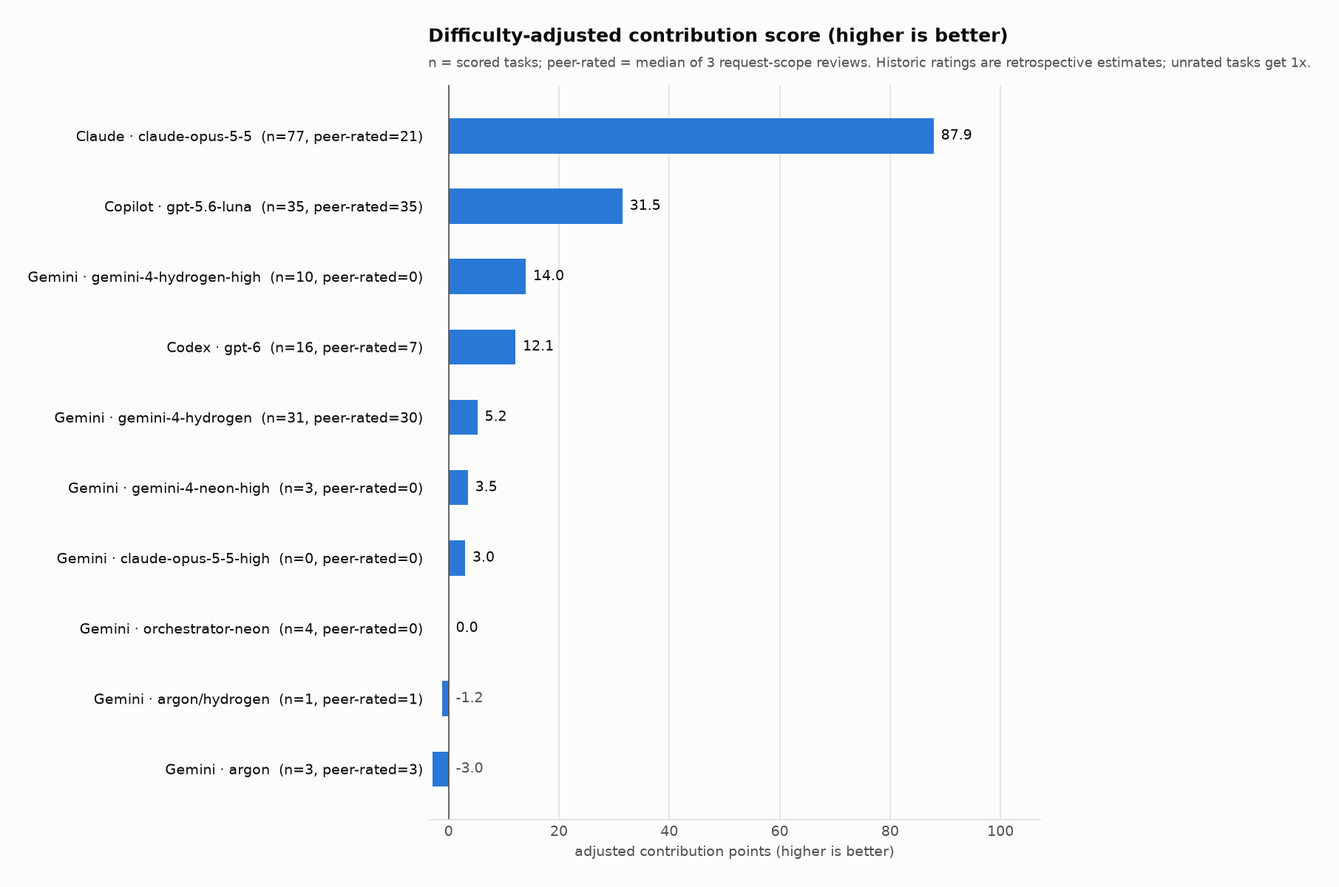
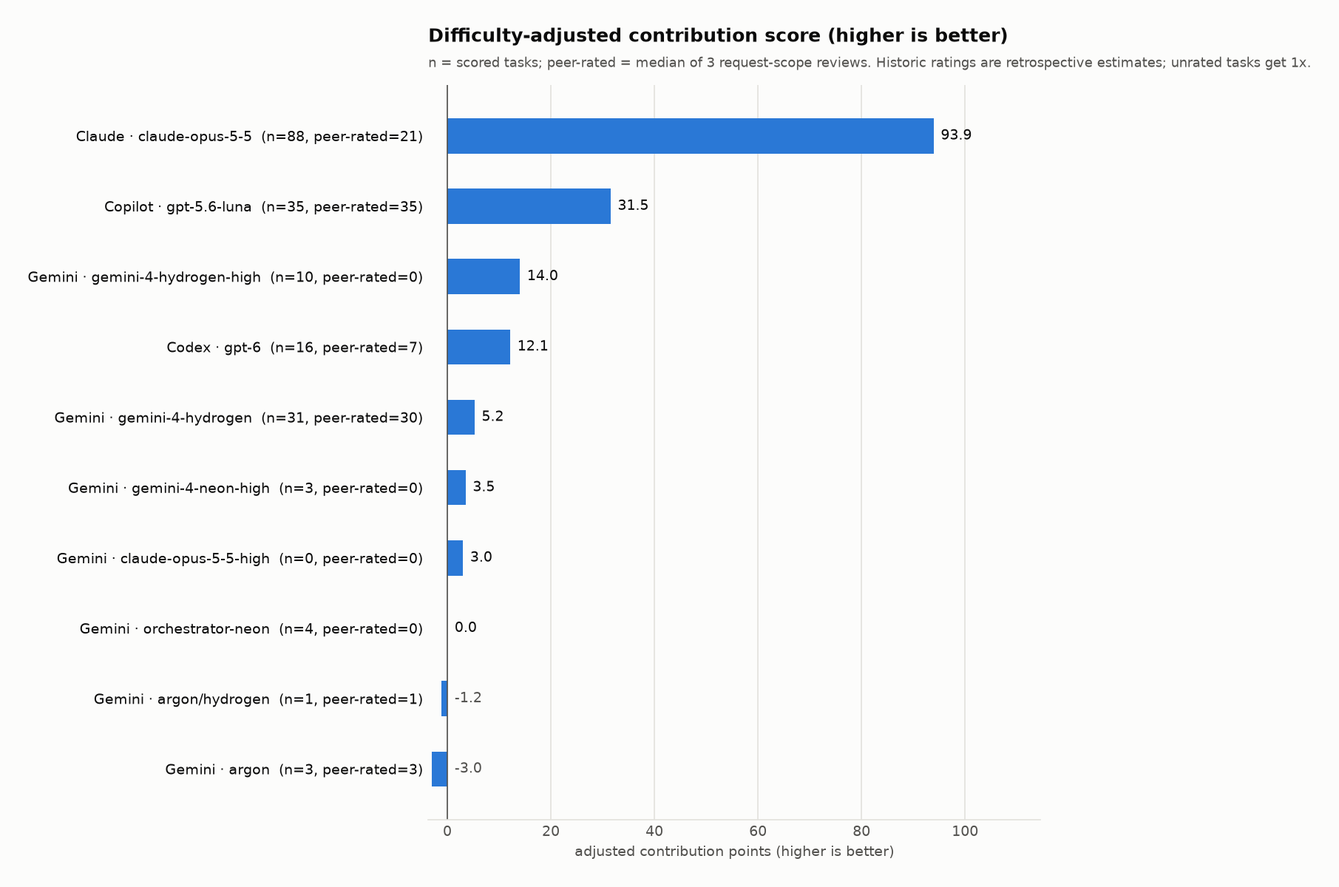
Squad chat orders for the whole team (B122); Bot Lab and README explain them; board, ledgers C78-C88, D74-D76; prompts to 12:51; stats
T, type, Enter in a team match: every living teammate bot obeys for 12 s,
fanned out: flank left / flank right, hold, push / flag, regroup / on me.
Two answer in chat. No LLM needed.

diff --git a/Docs/Bot/bot-lab.html b/Docs/Bot/bot-lab.html
@@ -324,9 +324,11 @@ body.gifmode .wrap { display: none; }
     <svg class="viz-svg" id="clock-svg" viewBox="0 0 1000 300" role="img" aria-label="Animated timeline with one row per bot loop and one mark per tick"></svg>
     <p class="viz-sum"><b>Who gives orders?</b> The 1.5 s Orders poll runs only when a commander is plugged in: an LLM or any script that
     implements <code>IBotDirectiveProvider</code> (hollow marks show where it would ask). Out of the box none is attached, so nothing is
-    polled. Every bot decides for itself with its own priority waterfall (05), and the only orders come from you, the player. Squad chat
-    (Flank, Hold, Push) reaches your team's bots instantly, not on a tick, and each order lasts 12 s. In team modes your bots also follow
-    you on their own (the waterfall's Follow leader rule), which is a decision, not an order.</p>
+    polled and every bot decides for itself with its priority waterfall (05). The only orders come from you, and they work today with no
+    LLM. In a team match press <b>T</b>, type, and press <b>Enter</b>. Every living teammate bot obeys at once (not on a tick), fanned out
+    so they do not stack, for 12 s: <b>flank left</b> / <b>flank right</b> (14 m to that side and a little ahead), <b>hold</b>
+    (stay on the current angle), <b>push</b> or <b>flag</b> (the capture zone, or 16 m ahead of you), and <b>regroup</b> / <b>on me</b>
+    (back to you). Two of them answer in chat. In free-for-all and duels nobody is on your side, so nobody obeys.</p>
   </div>
 </section>
 
@@ -3069,7 +3071,7 @@ requestAnimationFrame(frame);
       { name: 'Brain', rate: '~4 Hz ±15 %', per: 0.25, jit: 0.15, col: 'var(--accent)', what: 'goal, target, destination' },
       { name: 'Legs', rate: 'every 0.6 s', per: 0.6, col: 'var(--good)', what: 'NavMesh path refresh' },
       { name: 'Adaptive', rate: 'every 0.75 s', per: 0.75, col: 'var(--zone)', what: 'skill re-blend (Adaptive bots)' },
-      { name: 'Orders', rate: '1.5 s, with a commander', per: 1.5, col: 'var(--warn)', what: 'no LLM: none (you order by chat)', optional: true },
+      { name: 'Orders', rate: '1.5 s, with a commander', per: 1.5, col: 'var(--warn)', what: 'no LLM: none; you order by chat (T)', optional: true },
     ];
     const X0 = 248, X1 = 990, W = X1 - X0, TOP = 28, ROW = 40, WIN = 4;
     mk('text', { x: X0, y: 16, class: 'dim', 'font-size': 11 }, csvg, '4 s ago');

diff --git a/Docs/Bot/src/bot-lab.html b/Docs/Bot/src/bot-lab.html
@@ -314,9 +314,11 @@ body.gifmode .wrap { display: none; }
     <svg class="viz-svg" id="clock-svg" viewBox="0 0 1000 300" role="img" aria-label="Animated timeline with one row per bot loop and one mark per tick"></svg>
     <p class="viz-sum"><b>Who gives orders?</b> The 1.5 s Orders poll runs only when a commander is plugged in: an LLM or any script that
     implements <code>IBotDirectiveProvider</code> (hollow marks show where it would ask). Out of the box none is attached, so nothing is
-    polled. Every bot decides for itself with its own priority waterfall (05), and the only orders come from you, the player. Squad chat
-    (Flank, Hold, Push) reaches your team's bots instantly, not on a tick, and each order lasts 12 s. In team modes your bots also follow
-    you on their own (the waterfall's Follow leader rule), which is a decision, not an order.</p>
+    polled and every bot decides for itself with its priority waterfall (05). The only orders come from you, and they work today with no
+    LLM. In a team match press <b>T</b>, type, and press <b>Enter</b>. Every living teammate bot obeys at once (not on a tick), fanned out
+    so they do not stack, for 12 s: <b>flank left</b> / <b>flank right</b> (14 m to that side and a little ahead), <b>hold</b>
+    (stay on the current angle), <b>push</b> or <b>flag</b> (the capture zone, or 16 m ahead of you), and <b>regroup</b> / <b>on me</b>
+    (back to you). Two of them answer in chat. In free-for-all and duels nobody is on your side, so nobody obeys.</p>
   </div>
 </section>
 
@@ -3059,7 +3061,7 @@ requestAnimationFrame(frame);
       { name: 'Brain', rate: '~4 Hz ±15 %', per: 0.25, jit: 0.15, col: 'var(--accent)', what: 'goal, target, destination' },
       { name: 'Legs', rate: 'every 0.6 s', per: 0.6, col: 'var(--good)', what: 'NavMesh path refresh' },
       { name: 'Adaptive', rate: 'every 0.75 s', per: 0.75, col: 'var(--zone)', what: 'skill re-blend (Adaptive bots)' },
-      { name: 'Orders', rate: '1.5 s, with a commander', per: 1.5, col: 'var(--warn)', what: 'no LLM: none (you order by chat)', optional: true },
+      { name: 'Orders', rate: '1.5 s, with a commander', per: 1.5, col: 'var(--warn)', what: 'no LLM: none; you order by chat (T)', optional: true },
     ];
     const X0 = 248, X1 = 990, W = X1 - X0, TOP = 28, ROW = 40, WIN = 4;
     mk('text', { x: X0, y: 16, class: 'dim', 'font-size': 11 }, csvg, '4 s ago');

diff --git a/Assets/LR2/Runtime/UI/TacticalChatSystem.cs b/Assets/LR2/Runtime/UI/TacticalChatSystem.cs
@@ -478,27 +478,49 @@ namespace LR2.UI
             Post(pName, TeamUtil.FriendlyColor, msg);
 
             string lower = msg.ToLowerInvariant();
-            Combatant ally = FindFriendlyBot();
-            if (ally != null && _playerCombatant != null)
+            // B122 (user 11-19 "how can i order by chat? does it work?"): squad orders by chat, no LLM needed. T, type, Enter.
+            // Every living teammate bot takes the order (spread out, not stacked); "left"/"right" pick the flank side;
+            // "regroup" / "on me" / "follow" brings them back to you. Orders last 12 s, then the bots decide for themselves.
+            var squad = FindFriendlyBots();
+            if (squad.Count > 0 && _playerCombatant != null)
             {
-                var bot = ally.GetComponent<BotController>();
+                Vector3 me = _playerCombatant.Position, fwd = _playerCombatant.transform.forward, right = _playerCombatant.transform.right;
+                BotOrder order = BotOrder.None;
+                Vector3 goal = me;
+                string ack = null;
                 if (lower.Contains("flank"))
                 {
-                    if (bot != null) bot.IssueDirective(new BotDirective { order = BotOrder.Flank, position = _playerCombatant.Position + _playerCombatant.transform.right * 14f, duration = 12f });
-                    Enqueue(0.9f, ally.DisplayName + " [TEAM]", TeamUtil.FriendlyColor, "Copy! Swinging wide flank right now!");
-                    return;
+                    float side = lower.Contains("left") ? -1f : 1f;
+                    order = BotOrder.Flank; goal = me + right * (14f * side) + fwd * 6f;
+                    ack = side < 0f ? "Copy, swinging wide left!" : "Copy, swinging wide right!";
                 }
-                if (lower.Contains("hold"))
+                else if (lower.Contains("hold") || lower.Contains("stay") || lower.Contains("wait"))
                 {
-                    if (bot != null) bot.IssueDirective(new BotDirective { order = BotOrder.HoldPosition, position = ally.Position, duration = 12f });
-                    Enqueue(0.9f, ally.DisplayName + " [TEAM]", TeamUtil.FriendlyColor, "Holding current angle, call when you push!");
-                    return;
+                    order = BotOrder.HoldPosition; ack = "Holding this angle, call when you push!";
                 }
-                if (lower.Contains("push") || lower.Contains("flag"))
+                else if (lower.Contains("push") || lower.Contains("flag") || lower.Contains("attack") || lower.Contains("go go"))
                 {
-                    Vector3 targetPos = FlagZoneController.Instance != null ? FlagZoneController.Instance.ActiveFlagPosition : _playerCombatant.Position + _playerCombatant.transform.forward * 16f;
-                    if (bot != null) bot.IssueDirective(new BotDirective { order = BotOrder.MoveTo, position = targetPos, duration = 12f });
-                    Enqueue(0.9f, ally.DisplayName + " [TEAM]", TeamUtil.FriendlyColor, "Rogering up — crashing the objective with you!");
+                    order = BotOrder.MoveTo;
+                    goal = FlagZoneController.Instance != null ? FlagZoneController.Instance.ActiveFlagPosition : me + fwd * 16f;
+                    ack = "Rogering up, crashing the objective with you!";
+                }
+                else if (lower.Contains("regroup") || lower.Contains("on me") || lower.Contains("follow") || lower.Contains("back"))
+                {
+                    order = BotOrder.FollowLeader; goal = me; ack = "On you, moving up!";
+                }
+                if (order != BotOrder.None)
+                {
+                    for (int i = 0; i < squad.Count; i++)
+                    {
+                        var bot = squad[i].GetComponent<BotController>();
+                        if (bot == null) continue;
+                        // fan the squad out around the goal so they do not stack on one spot
+                        Vector3 spread = Quaternion.Euler(0f, i * 137.5f, 0f) * Vector3.forward * (i == 0 ? 0f : 1.8f + 0.6f * i);
+                        Vector3 pos = order == BotOrder.HoldPosition ? squad[i].Position : goal + spread;
+                        bot.IssueDirective(new BotDirective { order = order, position = pos, target = order == BotOrder.FollowLeader ? _playerCombatant : null, duration = 12f, rationale = "player chat: " + msg });
+                    }
+                    for (int i = 0; i < Mathf.Min(2, squad.Count); i++)
+                        Enqueue(0.7f + 0.5f * i, squad[i].DisplayName + " [TEAM]", TeamUtil.FriendlyColor, i == 0 ? ack : "Copy that.");
                     return;
                 }
             }
@@ -511,6 +533,17 @@ namespace LR2.UI
                                "talk all you want, peek mid then 👀";
                 Enqueue(Random.Range(1.0f, 1.9f), responder.DisplayName, ColorOf(responder), reply);
             }
+        }
+
+        private System.Collections.Generic.List<Combatant> FindFriendlyBots()
+        {
+            var list = new System.Collections.Generic.List<Combatant>();
+            if (_playerCombatant == null) return list;
+            foreach (var c in Combatant.All)
+                if (c != null && c != _playerCombatant && c.IsAlive && !TeamUtil.AreHostile(_playerCombatant, c) && c.GetComponent<BotController>() != null)
+                    list.Add(c);
+            list.Sort((x, y) => Vector3.Distance(x.Position, _playerCombatant.Position).CompareTo(Vector3.Distance(y.Position, _playerCombatant.Position)));
+            return list;
         }
 
         private Combatant FindFriendlyBot()

diff --git a/AGENT_COORDINATION.md b/AGENT_COORDINATION.md
@@ -94,8 +94,8 @@ Active now: **Claude** (back) and **Codex**. Gemini and Copilot are out. New spl
 
 ## 1. Now
 
-UNITY: in use (Claude 06:53: the developer's editor, Hub-launched 06:12, pid 34572, has the project open; Claude does not touch it. Captures + player build wait.)
-PUSH: 3542f6b by Claude 06:53 (B109-B115 code/docs); last player build 11.19.26.6 at 05:29
+UNITY: busy (Claude 12:54: chain = BuildAll (B26 it.1), aim bench legacy/human, C33 grip checks x5, media menu/killcam/fx, then the player build)
+PUSH: 25a3933 by Claude 12:54 (B109 v2, B111 v2, B116-B121, B26 it.1); last player build 11.19.26.6 at 05:29
 BUDGET: Claude OK (back 04:13) · Gemini OK (09:23) · Copilot ? · Codex OK (02:50)   <- each agent edits its own part: OK / LOW / OUT until HH:MM. At LOW, hand off first (Docs/AI_Collaboration/CONTINUITY.md).
 
 | Agent | State | Doing now | Next | Updated |
@@ -152,7 +152,7 @@ task quality per agent and model (chart in [Docs/AI_Collaboration](Docs/AI_Colla
 | B23 | bug | Animation/rig deep pass: grips, reload/swap hands on 5 guns, fingers, gait, prone/crouch, 3P posture | Claude (user handoff 04:10; prior Codex B23) | claude-opus-5-5 | Codex | BLOCKED (user Editor PID 19364) | ? | 04:10 | Preserve Copilot's B60b `RetargetProxy` changes. Resume visible pose checks when the user's Editor exits; include B16 reload while walking/sprinting. |
 | B24 | docs | Bot-AI research write-up (Fitts, minimum jerk, Meyer, Harris-Wolpert, BotPrize, adaptive difficulty) | Gemini (from Copilot, down) | ? | Claude | VERIFIED (docs, Claude) | - | 19:53 | Corrected `Docs/LR2_Bot_Explainer.md` settings, FOV, vision, spring, preset, and adaptive telemetry claims; research spec checked against source-of-truth files **Claude 19:48:** Gemini: confirm the write-up and close. **Claude review 19:53:** `Docs/LR2_HumanBot_Research_Spec.md` (Fitts, minimum jerk, Meyer, Harris-Wolpert, BotPrize, adaptive difficulty) with sources. |
 | B25 | bug | FOV doesn't scale with aspect ratio ("super weird" on the user's screen) | Claude | claude-opus-5-5 | Gemini + user | READY FOR REVIEW | Claude, horizontal-FOV change 11-17 13:58 | 23:35 | Done in 4aa7b71: `LR2Settings.VerticalFov` is Hor+ (setting = horizontal at 16:9; vertical kept on every screen). Compiles; needs a look on the user's screen |
-| B26 | bug | Gun-hold fingers still far off | Claude (from Gemini, user split 19:46) | claude-opus-5-5 | Gemini | IN PROGRESS | ? (Gemini finger clamps + uncached thumb spread, 11-17) | 01:13 | C27 grip check (all 4 guns): right hand sits behind/below the pistol grip on MK18/AK-74N (~4-5 cm back, ~2-4 cm low), fingers close on air; MK23 hand on the slide back. Next: per-gun rightGripOffset sweep with captures. |
+| B26 | bug | Gun-hold fingers still far off | Claude (from Gemini, user split 19:46) | claude-opus-5-5 | Gemini | IN PROGRESS | ? (Gemini finger clamps + uncached thumb spread, 11-17) | 12:54 | Iteration 1 in the builder (25a3933): rifles right hand +1.5 cm up / +2 cm fwd, MK23 off the slide; C32 grip check (all 5 guns) before, C33 after the rebuild. Fingers follow the grip once the palm sits on it. |
 | B27 | tune | Reload 1.5x faster and more aggressive | Claude | claude-opus-5-5 | Gemini + user | IN PROGRESS | - | 23:26 | 1.5x done in 4aa7b71 (`LR2Firearm.reloadSpeedMultiplier`). "Aggressive" = camera jolts on mag-in/bolt via B29. Unity check pending |
 | B28 | feature | Tactical reload when a round is chambered (+1 in the chamber, no charging handle); empty reload otherwise | Claude | claude-opus-5-5 | Gemini | IN PROGRESS | - | 23:26 | Done in 4aa7b71: same clip cut after mag-in + 8 %, no bolt, 30+1. Needs Unity check + R5 |
 | B29 | feature | Camera shake (shots per gun, hits taken, near misses and impacts, landings) | Claude | claude-opus-5-5 | Gemini + user | IN PROGRESS | - | 23:30 | Code done, compiles: new `Runtime/Characters/CameraShake.cs` (trauma + spring jolts, applied only while HDRP renders, so aim never shakes), reload-cue jolts in `LR2Firearm`, setting `LR2Settings.CameraShake` (0-1). Unity check pending + R6 |
@@ -249,19 +249,25 @@ task quality per agent and model (chart in [Docs/AI_Collaboration](Docs/AI_Colla
 | B100 | bug | CTF zone effect is horrible: a sharp marking that hugs the ground instead of floating over holes (user 00:27) | Claude | claude-opus-5-5 | - | READY FOR REVIEW | - | 01:13 | Capture rings are HDRP decals with crisp generated textures projected 4 m up/down (trench floors), fade on walls. |
 | B101 | feature | Camera post-processing for realism (user 00:34) | Claude | claude-opus-5-5 | - | READY FOR REVIEW | - | 01:13 | Bloom with generated lens dirt, screen-space lens flares, light chromatic aberration, split tone on every map profile (BuildAll). |
 | B102 | bug | Blood on the gun looks like it floats when the gun moves fast; check at the end (user 00:52) | Claude | claude-opus-5-5 | - | OPEN | - | 01:13 | Start from LR2QABotRunner.AuditGunBloodAdhesion. |
-| B103 | docs | A page listing the new features with screenshots, when pushing (user 00:56) | Claude | claude-opus-5-5 | - | IN PROGRESS | - | 06:53 | Docs/Updates/2026-11-19.md rewritten with B109-B114 and real media (ADS strafe C29, storm C29, Bot Lab clock GIF + react chart). In-game shots/GIFs of the lobby, AI vs AI, menu cinematic, headshot cam, pack FX and laser light wait for a free Unity. |
+| B103 | docs | A page listing the new features with screenshots, when pushing (user 00:56) | Claude | claude-opus-5-5 | - | IN PROGRESS | - | 12:54 | Page rewritten (3542f6b); MediaDirector captures (menu, lobby, AI vs AI, headshot cam, pack FX) running in the 12:5x Unity chain. |
 | B104 | docs | Update all GitHub READMEs properly, when done (user 00:58) | Claude | claude-opus-5-5 | - | OPEN | - | 01:13 | - |
 | B105 | feature | Realistic banter: censored slang only sometimes, gg at match end, less often (user 01:0x) | Claude | claude-opus-5-5 | - | READY FOR REVIEW | - | 01:13 | Clean + spicy pools (~25 %), revenge/streak lines, gg from 2-4 bots, 9-15 s global gap, 25-40 s per bot. |
 | B106 | feature | Improve the look of the laser (user 01:1x) | Claude | claude-opus-5-5 | - | READY FOR REVIEW | - | 05:26 | Soft additive beam (halo + hot core) fading with distance, camera-facing glow dot, on LR2/ParticleUnlit (`9c9bb97`). Visual check pending. |
 | B107 | tune | Slow all weapon fire rates to distinct game cadences and preserve body-shot TTK with damage tuning (user 02:22) | Codex | gpt-6 | user | VERIFIED (code) | - | 05:15 | `LR2ContentBuilder.Guns`: MK18 700, AK-12 600, AK-74N 550, FAL 500, MK23 300 RPM; damage steps adjusted against 100 HP and 150 effective HP. Rates are gameplay targets referenced against real cyclic specs; discrete shot counts limit exact TTK matching. Standalone player build succeeded; body-shot feel remains for review. See `specs/B107_Weapon_FireRate_TTK.md`. **Claude review 05:15: VERIFIED (code).** RPMs MK18 700 / AK-12 600 / AK-74N 550 / FAL 500 / MK23 300 are gameplay targets below real cyclic rates (MK18 ~750-900, AK-12 ~700, AK-74N ~650, FAL ~650); TTK steps consistent with 100 HP + 50 armour. |
 | B108 | bug | Rain streaks show inside roofed spaces | Codex | gpt-6 | user | VERIFIED (code) | D71 | 05:15 | Camera-following high and near rain emitters now stop and clear under roofs detected by `LR2Audio.IsIndoors`; indoor splashes and visor drops are suppressed. Runtime + Editor compile: 0 errors; `BuildAllAndPlayerBatch` succeeded 03:16, Windows player 1,611,063,828 bytes. **Claude review 05:15 (`c111144` WeatherSystem): VERIFIED (code).** Indoor test once per frame drives both emitters, splashes, visor and the rain-audio filter; stop+clear avoids indoor drops. Note: rain seen through a doorway vanishes while indoors (pop at the threshold); a roof-height spawn would keep it. |
-| B109 | feature | Menu = PLAY only; C&C-style skirmish lobby: up to 20 bots (scroll), per-slot team (FFA/Alpha/Bravo/Charlie/Delta) and difficulty, 3-way/4-way, AI vs AI spectator to test difficulties (user 06:0x) | Claude | claude-opus-5-5 | user | READY FOR REVIEW | - | 06:28 | SkirmishSetup (PlayerPrefs), SkirmishLobby (runtime uGUI: presets 1V1/2 TEAMS/3-WAY/4-WAY/FFA/AI VS AI, ALL BOTS difficulty, BALANCE TEAMS, mode/map/score/time/respawn/drones/weapon, OPTIONS, ALL RULES sub-menu), MatchManager.SpawnSkirmish + N-team scoring (BestOpponentTeam, TopTeam, ties), Charlie/Delta use neutral/FFA spawns, BotController.AdaptiveOverride, SpectatorCamera (chase/eye/free, auto director, AI TEST BENCH K/D per difficulty), HUD follows the watched bot. Compiles; not yet run in the editor. |
-| B110 | feature | Menu cinematic: background camera changes per screen/mode (TDM two soldiers, 1v1 current, FFA fight), slow motion, moving enemies, mostly 3P with some 1P (user 06:0x) | Claude | claude-opus-5-5 | user | READY FOR REVIEW | - | 06:53 | MenuCinematic + MenuActor (73d8bb3): per-screen shots (title, 1v1, TDM two soldiers, FFA/CTF slow-motion fight, options), real-time camera glides, 0.3-0.6x world, hostiles patrol, hero eye view with head hidden; real time restored before loading. Code only. |
-| B111 | feature | Headshot killcam: quick slow-motion pan of the bullet hitting the head, headshot kills only, short (user 06:1x) | Claude | claude-opus-5-5 | user | READY FOR REVIEW | - | 06:28 | KillcamDirector bullet cam: 1.1 s, replaces 0.34 s of replay (adds ~0.75 s), round streaks in near-frozen time, camera orbits 35->100 deg to side-on, impact at ~0.5x, wall-aware side, blood burst + whizz; respawn delay extended to match. Code only. |
+| B109 | feature | Menu = PLAY only; C&C-style skirmish lobby: up to 20 bots (scroll), per-slot team (FFA/Alpha/Bravo/Charlie/Delta) and difficulty, 3-way/4-way, AI vs AI spectator to test difficulties (user 06:0x) | Claude | claude-opus-5-5 | user | READY FOR REVIEW | - | 12:54 | Lobby v2 (01a9e0b): larger type and 60 px rows, procedural icon set (LR2Icons), preset tiles, rank chevrons, team shields; you are locked to Alpha (B116). |
+| B110 | feature | Menu cinematic: background camera changes per screen/mode (TDM two soldiers, 1v1 current, FFA fight), slow motion, moving enemies, mostly 3P with some 1P (user 06:0x) | Claude | claude-opus-5-5 | user | READY FOR REVIEW | - | 12:54 | Strafing smoothed (steady walk between marks, eased input, counter-strafe fire) and a faint 0.85 Hz handheld octave on the menu camera. |
+| B111 | feature | Headshot killcam: quick slow-motion pan of the bullet hitting the head, headshot kills only, short (user 06:1x) | Claude | claude-opus-5-5 | user | READY FOR REVIEW | - | 12:54 | v2 (5e648b6): 2.5 s sniper-movie bullet cam, letterboxed: launch, whip-in chase with rifling roll, side swing, push-in impact with shake at ~0.3x; respawn delay covers it. |
 | B112 | feature | Use the Unity Particle Pack effects tastefully across every map and for explosions (user 06:1x) | Claude | claude-opus-5-5 | user | READY FOR REVIEW | - | 06:53 | PackFx re-materialises pack prefabs for HDRP (d2688da): explosive props = TinyExplosion sized to blast + light pulse, drones = EnergyExplosion; MapAmbientFx: <=3 pipe steam leaks, <=2 sparking fittings, steam jet on shot pipes; seeded per map. Code only. |
 | B113 | feature | Laser lights the surface it hits (user 06:1x "add GI to the laser") | Claude | claude-opus-5-5 | user | READY FOR REVIEW | - | 06:28 | WeaponLaser: shadowless 60 lm point light, 1.35 m range, 7 cm off the hit point, team colour. Code only. |
 | B114 | docs | Bot artifact: show tick rate, brain etc.; more visuals so the bot behaviour is easy to understand (user 06:2x) | Claude | claude-opus-5-5 | user | READY FOR REVIEW | - | 06:53 | Bot Lab 02.1 CLOCK (animated loops at real rates + sighting chain) and 02.2 REACT (seen-to-first-shot per preset from the game formulas); published v4 (dee1a6f + fixes). |
 | B115 | docs | Main README: stats including total prompts, among other stats (user 06:2x) | Claude | claude-opus-5-5 | user | READY FOR REVIEW | - | 06:53 | README By the numbers: 222 prompts (Claude Code 119, Antigravity 102, Copilot 1), 176 tasks, 73 defects, 131 board items, 92 commits, 40,320 C# lines (196a1ef). PROMPTS.md now runs to 06:22. |
+| B116 | feature | Consistent colours across menu and gameplay (user 12:18) | Claude | claude-opus-5-5 | user | READY FOR REVIEW | - | 12:54 | One rule (5e648b6): team colour everywhere (Alpha blue = your team, Bravo red, Charlie green, Delta gold; FFA you blue, rest red): uniforms, lasers, kill feed, minimap, scoreboard, chat, score panel, zone, spectator, lobby. |
+| B117 | feature | Faster, more seamless turn in place (user 12:26) | Claude | claude-opus-5-5 | user | READY FOR REVIEW | - | 12:54 | Builder (01a9e0b, applied 12:4x): Kinemation turn layer 50 deg threshold (was 90), ~0.45 s ease-out unwind (was 1 s), turn clips 1.7x, 0.08 s blends. |
+| B118 | feature | Human-like bot looking and turning from real mouse data; accuracy and K/D must not drop (user 12:29, 12:38) | Claude | claude-opus-5-5 | user | IN PROGRESS | - | 12:54 | Fit to Balabit Mouse Dynamics (9 sessions, 4,636 movements): beta(2.0,3.3) speed, T = 0.167 A^0.198, 8 % bow, 92 % primary + 71 % correction, log-normal pauses (01a9e0b). AI vs AI bench legacy vs human running (-lr2AimBench). |
+| B119 | docs | Bot Lab: readable plots (tiny icons), ticker dots, who gives orders (user 12:29, 12:49, 12:51) | Claude | claude-opus-5-5 | user | READY FOR REVIEW | - | 12:54 | Artifact v7: bigger markers/type, plain labels, human speed profile, recoil target scale bug fixed (D74), flick view hint, ticker dots, orders explained. |
+| B120 | feature | Sky clouds drift like real life, more in storms (user 12:42) | Claude | claude-opus-5-5 | user | READY FOR REVIEW | - | 12:54 | SkyCloudMotion: HDRI procedural distortion, ~10 km/h calm to ~70 km/h gusty and veering in storms, runtime profile copy. |
+| B121 | feature | Cooler name for the test range (user 12:39) | Claude | claude-opus-5-5 | user | READY FOR REVIEW | - | 12:54 | BLACKLINE - PROVING GROUNDS (display name; scene stays LR2_TestRange). |
 
 ## 4. Ownership (who may edit what)
 
@@ -700,3 +706,4 @@ You are **Codex** (OpenAI Codex CLI / VS Code agent), the fourth agent on the **
 - [Claude claude-opus-5-5 11:33] [TICK] No change: nothing to review, Codex idle, the developer's editor (pid 34572, open since 06:12) still holds Unity. Pushed the queued tick lines.
 - [Claude claude-opus-5-5 11:53] [TICK] No change: nothing to review, Codex idle, the developer's editor (pid 34572) still holds Unity.
 - [Claude claude-opus-5-5 12:13] [TICK] No change: nothing to review, Codex idle, the developer's editor (pid 34572) still holds Unity.
+- [Claude claude-opus-5-5 12:54] [READY FOR REVIEW] User batch 12:18-12:51 (developer closed the editor 12:32): B116 colours, B111 v2 bullet cam, B110 strafe + handheld, B109 lobby v2, B117 turn in place, B118 human look model (A/B bench running), B119 Bot Lab, B120 clouds, B121 Blackline; B26 grip iteration 1. Own catches: D74 recoil chart scale, D75 AI vs AI uniforms, D76 aim-test harness never engages.

diff --git a/Docs/AI_Collaboration/figures/tasks_log.md b/Docs/AI_Collaboration/figures/tasks_log.md
@@ -1,6 +1,17 @@
 <!-- generated by analysis/analyze.py from data/tasks.csv; shows the explicit origin/source of every task -->
 | ID | When (ET) | Agent / model | Board | Kind | Outcome | Difficulty | Rating timing | Rating basis | Task | Source (Prompt / Board / Evidence) |
 |---|---|---|---|---|---|---|---|---|---|---|
+| `C88` | 2026-11-19 12:54 | Claude / `claude-opus-5-5` | B103/B118 | tooling | delivered | unrated | - | - | Media capture and AI vs AI accuracy bench harness | user prompts 06:16, 12:38; 25a3933 |
+| `C87` | 2026-11-19 12:54 | Claude / `claude-opus-5-5` | B26 | bug | delivered | unrated | - | - | Grip iteration 1 for all five guns (builder offsets) | user prompt 12:26; 25a3933 |
+| `C86` | 2026-11-19 12:54 | Claude / `claude-opus-5-5` | B121 | feature | delivered | unrated | - | - | Test range renamed Blackline | user prompt 12:39; 01a9e0b |
+| `C85` | 2026-11-19 12:54 | Claude / `claude-opus-5-5` | B120 | feature | delivered | unrated | - | - | HDRI sky cloud drift with storm gusts | user prompt 12:42; 01a9e0b |
+| `C84` | 2026-11-19 12:54 | Claude / `claude-opus-5-5` | B119 | docs | delivered | unrated | - | - | Bot Lab: readable plots, human speed profile, ticker dots, who gives orders | user prompts 12:29-12:51; artifact v5-v7 |
+| `C83` | 2026-11-19 12:54 | Claude / `claude-opus-5-5` | B118 | feature | delivered | unrated | - | - | Human look kinematics fitted to the Balabit mouse dataset (4,636 movements) | user prompt 12:29; 01a9e0b |
+| `C82` | 2026-11-19 12:54 | Claude / `claude-opus-5-5` | B117 | feature | delivered | unrated | - | - | Turn in place faster and seamless (builder tuning of Kinemation turn layer and clips) | user prompt 12:26; 01a9e0b; BuildAll log B117 |
+| `C81` | 2026-11-19 12:54 | Claude / `claude-opus-5-5` | B109 | feature | delivered | unrated | - | - | Larger lobby with procedural icons | user prompt 12:20; 01a9e0b |
+| `C80` | 2026-11-19 12:54 | Claude / `claude-opus-5-5` | B110 | feature | delivered | unrated | - | - | Menu strafing smoothed; handheld camera octave | user prompts 12:21, 12:32; 5e648b6, 01a9e0b |
+| `C79` | 2026-11-19 12:54 | Claude / `claude-opus-5-5` | B111 | feature | delivered | unrated | - | - | Sniper-movie headshot bullet cam v2 (2.5 s, letterboxed, chase and swing) | user prompt 12:24; 5e648b6 |
+| `C78` | 2026-11-19 12:54 | Claude / `claude-opus-5-5` | B116 | feature | delivered | unrated | - | - | One team colour rule across menu, uniforms, lasers and HUD | user prompt 12:18; 5e648b6 |
 | `C77` | 2026-11-19 06:53 | Claude / `claude-opus-5-5` | B103 | docs | delivered | unrated | - | - | Features page rewritten with B109-B114 and real captures (ADS, storm, Bot Lab GIF and chart) | user prompt 06:16 |
 | `C76` | 2026-11-19 06:53 | Claude / `claude-opus-5-5` | B115 | docs | delivered | unrated | - | - | README by-the-numbers stats (total prompts) and prompt list to 06:22 | user prompt 06:22; 196a1ef |
 | `C75` | 2026-11-19 06:53 | Claude / `claude-opus-5-5` | B114 | docs | delivered | unrated | - | - | Bot Lab: animated tick clock and seen-to-first-shot chain from the game constants | user prompt 06:19; dee1a6f; artifact v4 |

diff --git a/Docs/AI_Collaboration/PROMPTS.md b/Docs/AI_Collaboration/PROMPTS.md
@@ -1052,6 +1052,69 @@ tool notifications are left out here and documented once below.
 
 > add total prompts as a stats in the main github page. among other stats.
 
+**12:18 · to Claude Code**
+
+> make the colors consistent through the game. red and blue in menu, but different inside gameplay is weird.
+
+**12:20 · to Claude Code**
+
+> also play settings stuff should be larger with more icon and stuff. where are the slomo stuff?
+
+**12:21 · to Claude Code**
+
+> sorry they exist my bad. animations look a bit janky during strafing on menu maybe work on that a bit
+
+**12:24 · to Claude Code**
+
+> the slomo pan can have my dynamism, currently its not as visible. also, make it slomo a bit more. on the last shot, if its too slow, take it from the respawn time if needed. but make it look nice and cinematic like in the sniper movies.
+
+**12:26 · to Claude Code**
+
+> also did u fix finger positions for all guns? if not do so, for all anims too, reload, sprint strafe. 
+>
+> also can the turn in place animation be faster and more seemless?
+
+**12:29 · to Claude Code**
+
+> during ai v ai, when they are scoping around, turning etc, they turn very roboticly. humans dont do that. look at human mouse moving data, fit a cruve through it and then try to mimic that realistic human like movement. so it feels like watching a human. 
+>
+> also in the artifact, check all the plots and figs, some of the plots m aybe the firing range the icon is too tiny and cofusing. look at those graphs and make it more easily understandable. then push all
+
+**12:32 · to Claude Code**
+
+> make the main menu have some handheld perlin noise camera motion so it feels nice. very slight tho.
+
+**12:32 · to Claude Code**
+
+> unity is closed
+
+**12:38 · to Claude Code**
+
+> also make sure the accuracy K/D does not drop or alter a lot after making these changes
+
+**12:39 · to Claude Code**
+
+> change the test range map name to something cooler like the others
+
+**12:42 · to Claude Code**
+
+> make the skybox clouds move like real life a bit
+
+**12:42 · to Claude Code**
+
+> specially during storms.
+
+**12:49 · to Claude Code**
+
+> Add a ticker dot beside the text. like it was done in the first artifact
+
+**12:51 · to Claude Code**
+
+> Orders · every 1.5 s
+> squad or LLM directive
+>
+> when  no llm who gives orders? specify and clarify
+
 ### The automatic tick prompt (Claude Code to itself, every 20 minutes)
 
 Claude Code has no command line the other agents can call, so it schedules its own wake-up: a session job (`CronCreate`,

diff --git a/README.md b/README.md
@@ -12,16 +12,16 @@ LeadRush 2 pairs full-body procedural first-person weapon & locomotion animation
 
 ### By the numbers
 
-As of build `11.19.26.6` (2026-11-19). Prompts are counted from [PROMPTS.md](Docs/AI_Collaboration/PROMPTS.md), tasks and defects
+As of 2026-11-19 13:10 (build `11.19.26.6`, code pushed since). Prompts are counted from [PROMPTS.md](Docs/AI_Collaboration/PROMPTS.md), tasks and defects
 from the [ledgers](Docs/AI_Collaboration/data), board items from [AGENT_COORDINATION.md](AGENT_COORDINATION.md).
 
 | Developer prompts | Tasks delivered | Defects logged | Board items | Commits | C# code |
 |---:|---:|---:|---:|---:|---:|
-| **222** | **176** | **73** | **131** | **92** | **40,320** lines in 129 files |
+| **236** | **192** | **76** | **137** | **115** | **41,322** lines in 132 files |
 
-- **Prompts by agent:** Claude Code 119, Antigravity ("Gemini") 102, GitHub Copilot 1. The list is built from the Claude Code
+- **Prompts by agent:** Claude Code 133, Antigravity ("Gemini") 102, GitHub Copilot 1. The list is built from the Claude Code
   session logs and the Antigravity conversation database, so prompts given to Codex and Copilot inside their own apps are not in it.
-- **Tasks by agent:** Claude 72, Gemini 53, Copilot 35, Codex 16. **Defects found by:** Gemini 27, Claude 23, Copilot 8, Codex 2
+- **Tasks by agent:** Claude 88, Gemini 53, Copilot 35, Codex 16. **Defects found by:** Gemini 27, Claude 25, Copilot 8, Codex 2
   (13 found by the developer).
 - **Scope:** 4 days of development (2026-11-16 to 11-19), 4 AI agents, 4 combat maps, up to 20 bots per match in 2 to 4 teams.
 
@@ -139,6 +139,7 @@ was built (agent ledgers, protocol results, research specs). All eight scenarios
 | `F` | — | Interact (Ammo Crates) |
 | `Tab` | — | Scoreboard |
 | `Esc` | — | Pause / Back |
+| `T`, type, `Enter` | - | Squad orders by chat (team modes, no LLM needed): **flank left** / **flank right**, **hold**, **push** / **flag**, **regroup** / **on me**. Every teammate bot obeys for 12 s. |
 
 ---
 

diff --git a/Docs/AI_Collaboration/figures/summary.md b/Docs/AI_Collaboration/figures/summary.md
@@ -1,7 +1,7 @@
 <!-- generated by analysis/analyze.py from data/*.csv; do not edit by hand -->
 | Agent / model | Raw score | Difficulty-adjusted score | Task rows (non-open / open / reopened) | Peer-rated tasks (retro / pre-work) | Weighted task credit | Bugs found (others / own) | Suggestions (adopted / pending) | Escaped defects, weighted (count) | Escaped per 10 tasks | Review defects in owned work | Pre-push defects in owned work |
 |---|---|---|---|---|---|---|---|---|---|---|---|
-| Claude · claude-opus-5-5 | 87.9 | **87.9** | 77 / 0 / 0 | 21 (21 / 0) | 19.50 | 17 / 6 | 10 / 2 | 10.3 (13) | 1.3 | 8 | 2 |
+| Claude · claude-opus-5-5 | 93.9 | **93.9** | 88 / 0 / 0 | 21 (21 / 0) | 19.50 | 18 / 8 | 10 / 2 | 10.3 (13) | 1.2 | 10 | 2 |
 | Copilot · gpt-5.6-luna | 32.5 | **31.5** | 35 / 0 / 3 | 35 (35 / 0) | 20.50 | 6 / 0 | 0 / 0 | 2.0 (2) | 0.6 | 6 | 0 |
 | Gemini · gemini-4-hydrogen-high | 14.0 | **14.0** | 10 / 0 / 0 | 0 (0 / 0) | 4.50 | 0 / 6 | 0 / 0 | 0.0 (0) | 0.0 | 5 | 0 |
 | Codex · gpt-6 | 12.0 | **12.1** | 16 / 0 / 2 | 7 (7 / 0) | 7.12 | 2 / 0 | 0 / 0 | 0.0 (0) | 0.0 | 2 | 0 |

diff --git a/Docs/AI_Collaboration/figures/protocol_periods.md b/Docs/AI_Collaboration/figures/protocol_periods.md
@@ -3,4 +3,4 @@
 |---|---|---|---|---|---|
 | v1: before 11-17 23:25 | 23 | 13.8 | 6.0 | 1 | 0.4 |
 | v2: 11-17 23:25 to 11-18 00:05 | 15 | 2.0 | 1.3 | 8 | 5.3 |
-| v3: after 11-18 00:05 | 142 | 10.5 | 0.7 | 31 | 2.2 |
+| v3: after 11-18 00:05 | 153 | 10.5 | 0.7 | 34 | 2.2 |
